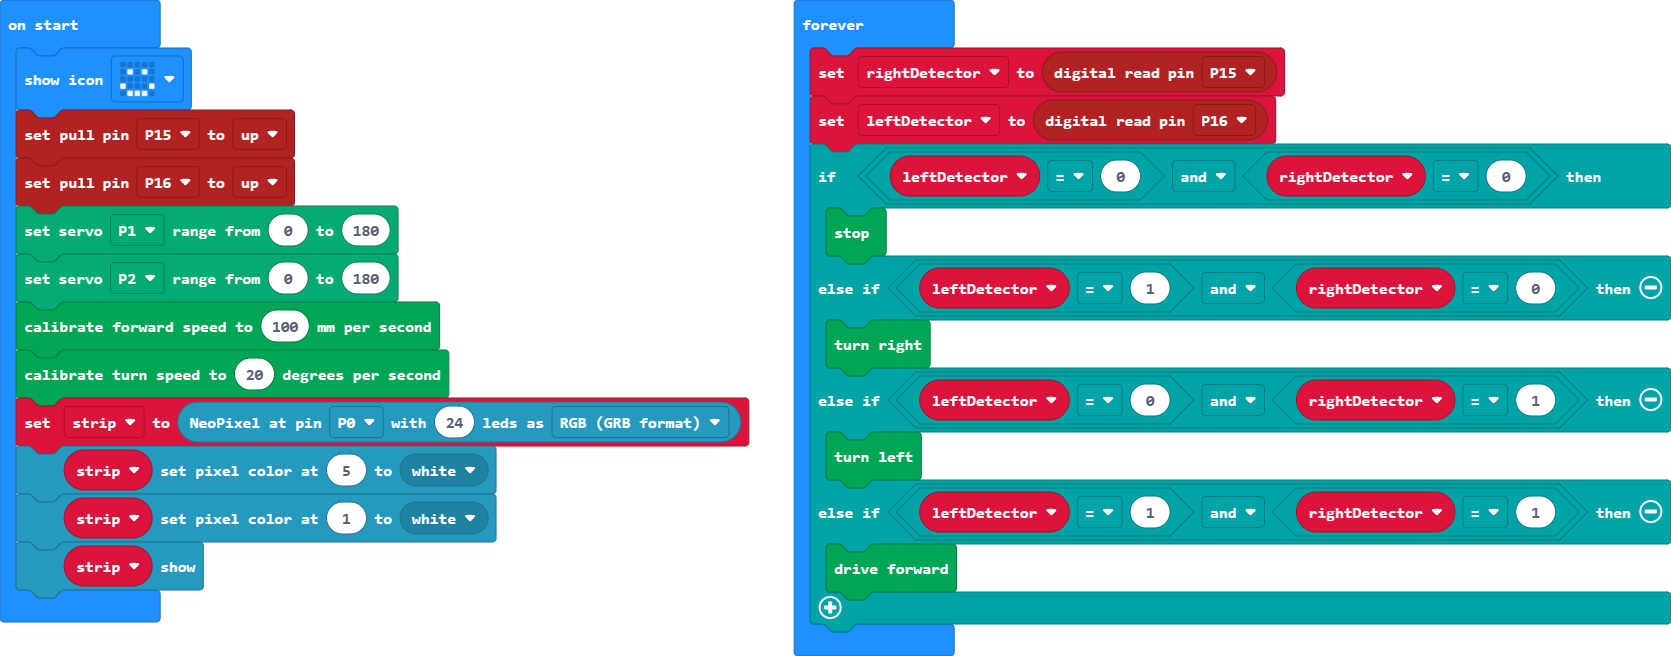
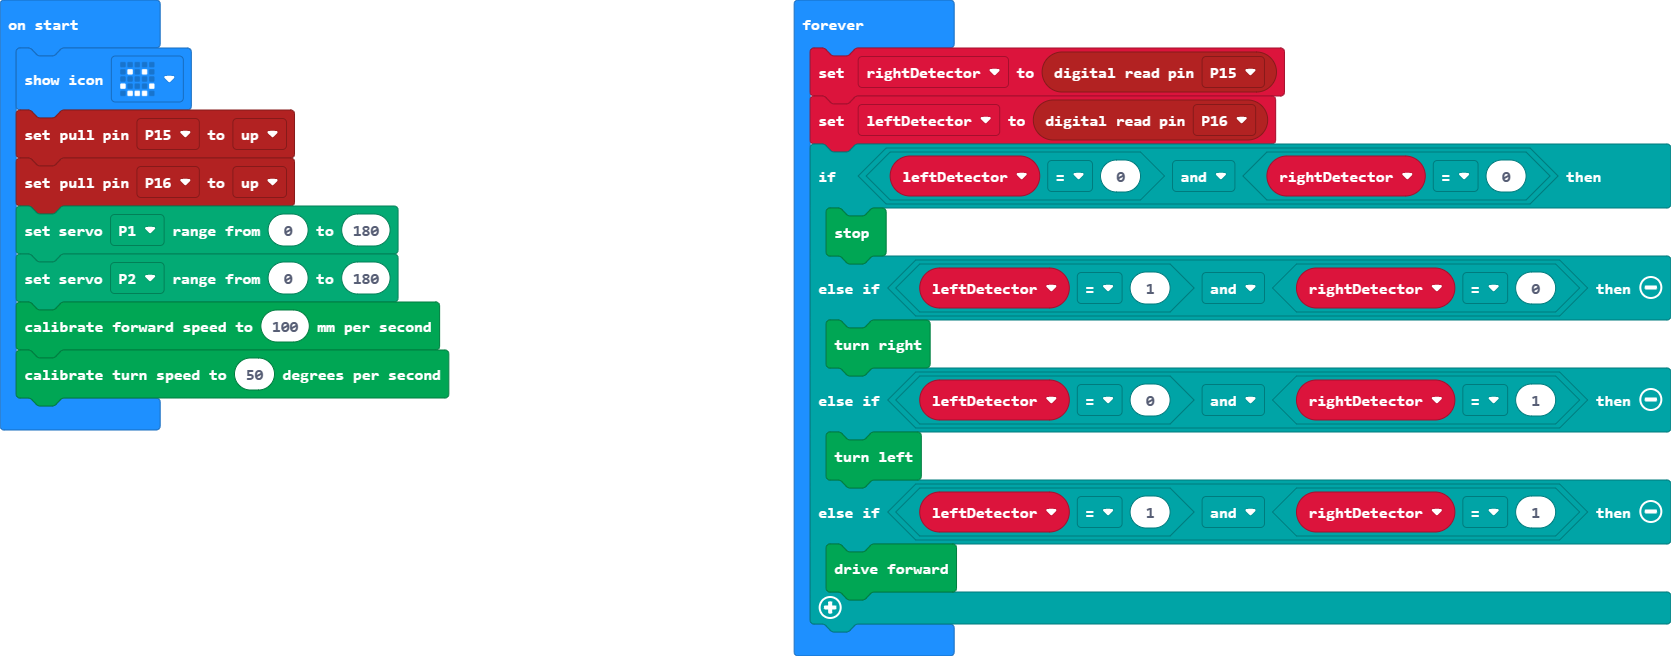
Update main.blocks, main.ts

Changed region(s): [[0.0, 0.5793, 0.4668, 0.9756]]

diff --git a/main.ts b/main.ts
@@ -9,11 +9,7 @@ pins.setPull(DigitalPin.P16, PinPullMode.PullUp)
 servos.P1.setRange(0, 180)
 servos.P2.setRange(0, 180)
 kitronik_servo_lite.setDistancePerSecond(100)
-kitronik_servo_lite.setDegreesPerSecond(20)
-let strip = neopixel.create(DigitalPin.P0, 24, NeoPixelMode.RGB)
-strip.setPixelColor(5, neopixel.colors(NeoPixelColors.White))
-strip.setPixelColor(1, neopixel.colors(NeoPixelColors.White))
-strip.show()
+kitronik_servo_lite.setDegreesPerSecond(50)
 basic.forever(function () {
     rightDetector = pins.digitalReadPin(DigitalPin.P15)
     leftDetector = pins.digitalReadPin(DigitalPin.P16)
